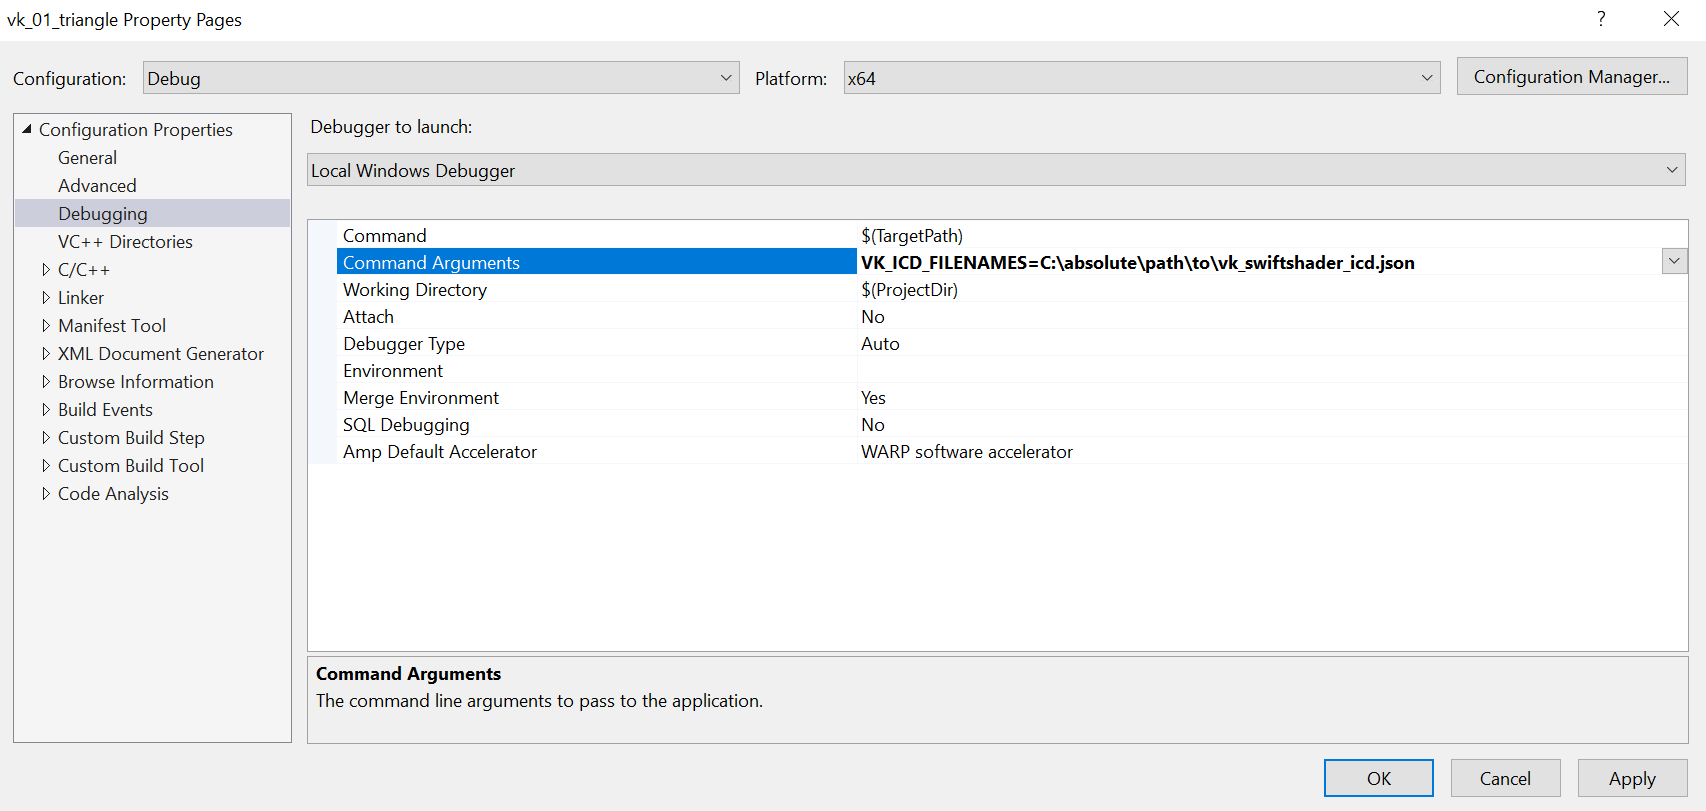
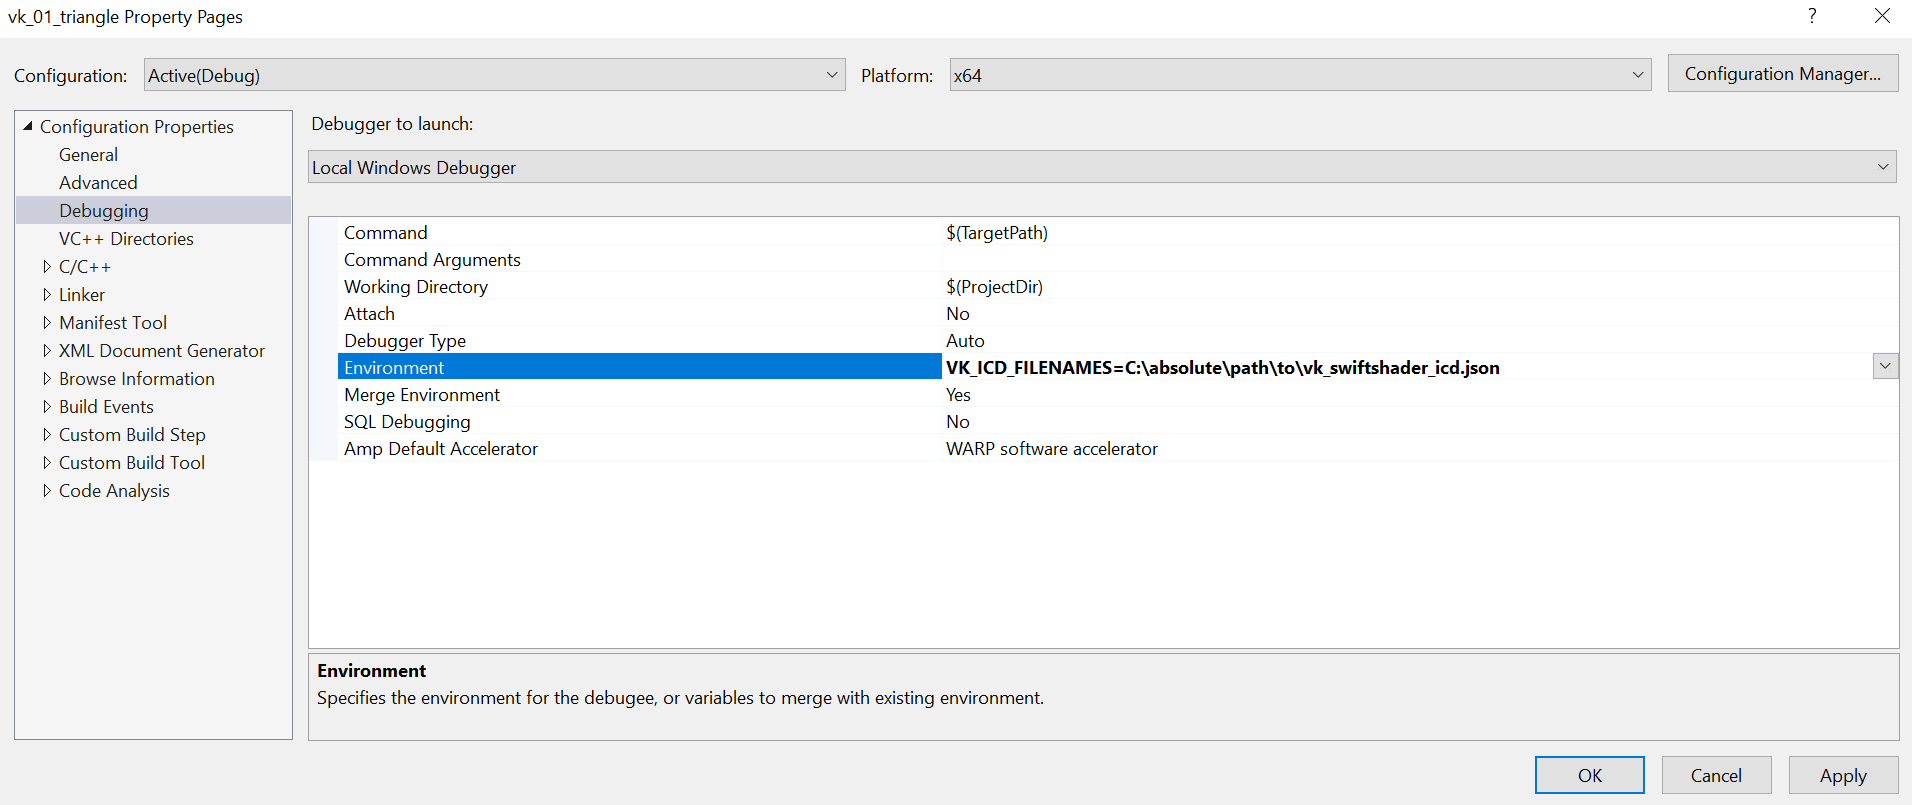
Fix screenshot showing how to use SwiftShader on Windows.

diff --git a/docs/software_rendering.md b/docs/software_rendering.md
@@ -48,7 +48,7 @@ $env:VK_ICD_FILENAMES = 'C:\absolute\path\to\vk_swiftshader_icd.json'
 bin/bigwheels_application.exe
 ```
 
-If you are using Visual Studio and running an application through it, add `VK_ICD_FILENAMES=C:\absolute\path\to\vk_swiftshader_icd.json` as an entry to `Configuration Properties -> Debugging -> Environment` in the project's property pages, as shown in the following screenshot.
+If you are using Visual Studio and running an application through it, add `VK_ICD_FILENAMES=C:\absolute\path\to\vk_swiftshader_icd.json` as an entry to `Configuration Properties -> Debugging -> Environment` in the project's property pages, as shown in the following screenshot. Do not use quotes around the path or a path with spaces in it.
 
 ![Environment property variable in Visual Studio](media/SwiftShader_VisualStudio_EnvVariable.png)
 
